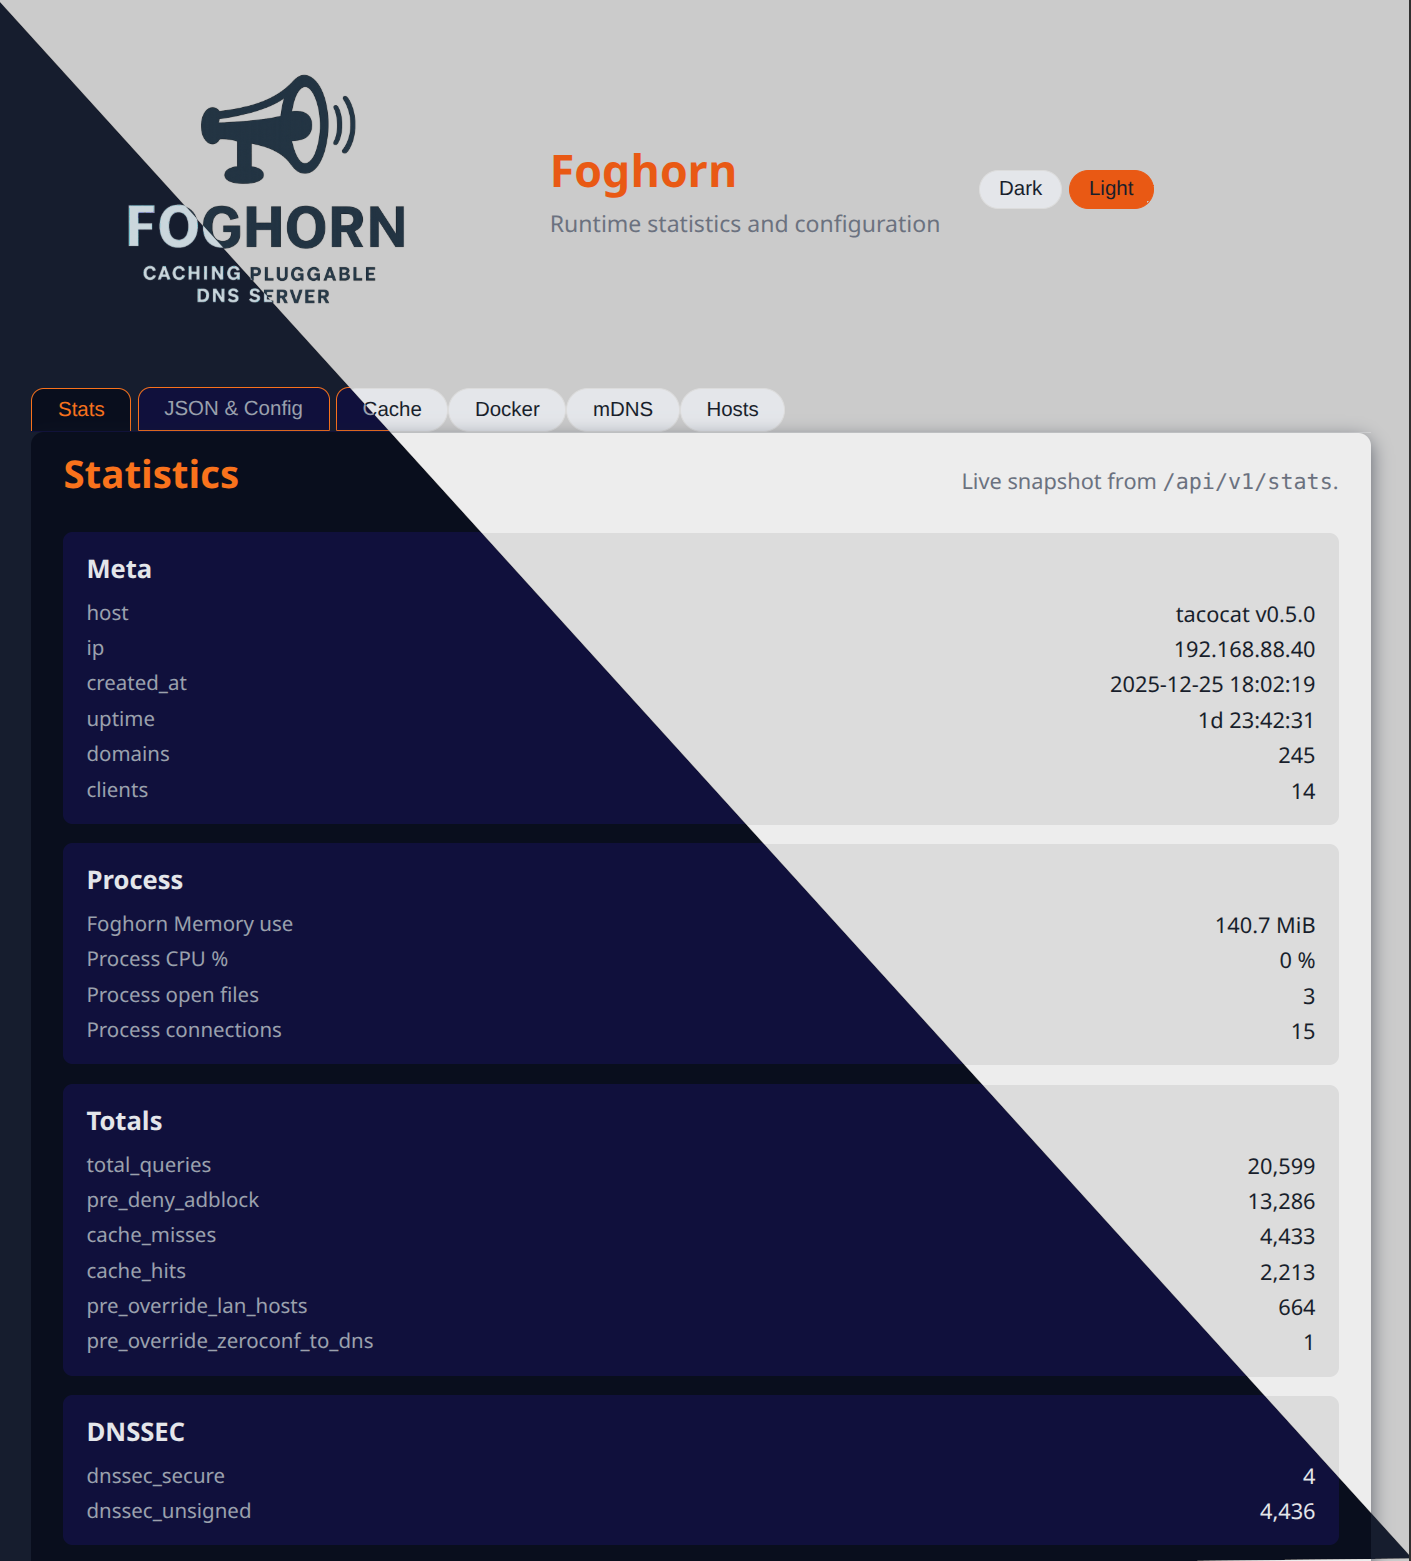
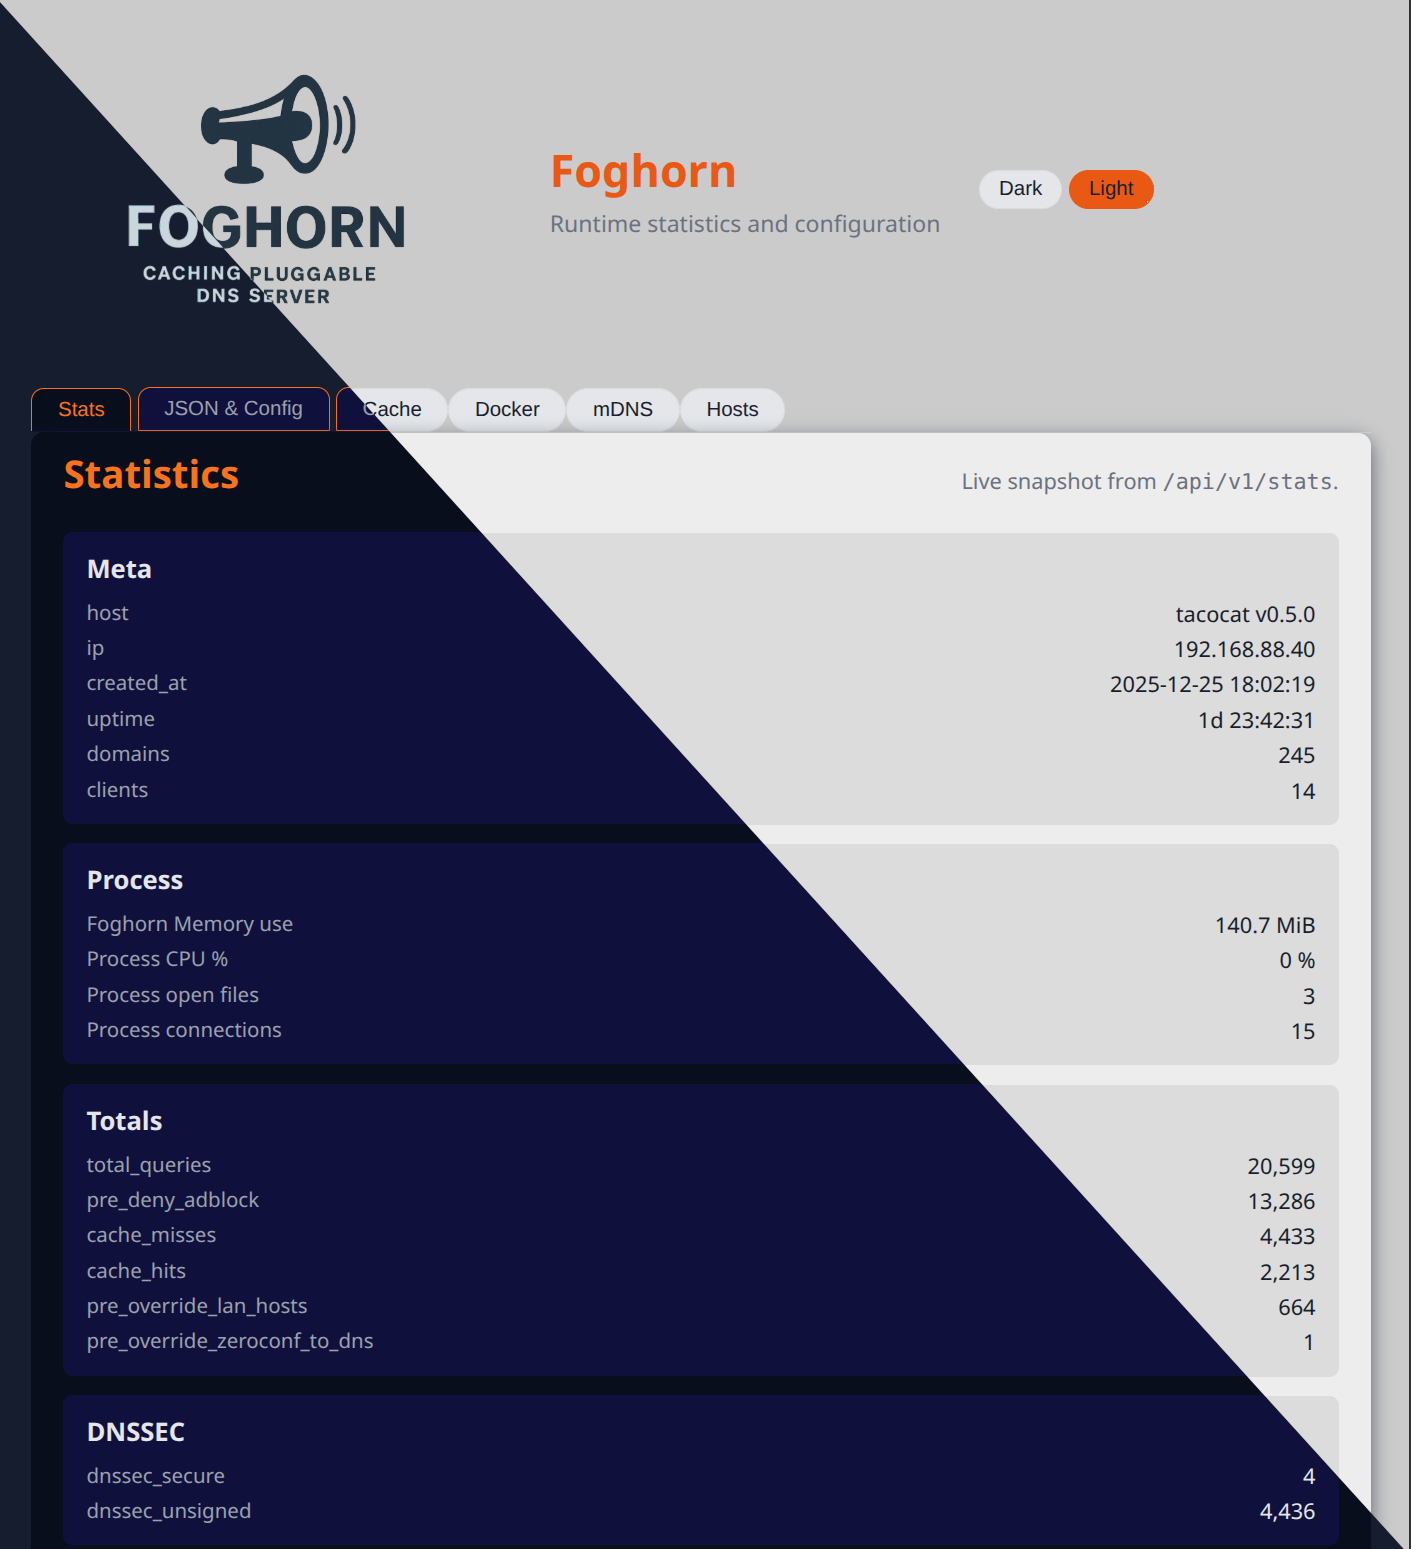
chore(docs): Updated screenshot and BMC image src
The old screenshot had a small white line at the bottom, the BMC image was hard
to see.

diff --git a/README.md b/README.md
@@ -4,7 +4,7 @@ Foghorn is a versatile DNS server designed for flexibility and performance. Buil
 
 With built-in admin and API server support, Foghorn empowers you to monitor and manage its operations efficiently. Plugins extend its functionality by providing their own status pages, seamlessly integrated into the admin dashboard.
 
-[![Python Tests](https://github.com/zallison/foghorn/actions/workflows/pytest.yml/badge.svg)](https://github.com/zallison/foghorn/actions/workflows/pytest.yml) ![Test Coverage](https://img.shields.io/badge/test_coverage-91%25-blue) [![Docker Pulls](https://img.shields.io/docker/pulls/zallison/foghorn)](https://hub.docker.com/r/zallison/foghorn/)  [![PyPI Downloads](https://static.pepy.tech/personalized-badge/foghorn?period=total&units=INTERNATIONAL_SYSTEM&left_color=GRAY&right_color=BLUE&left_text=downloads)](https://pepy.tech/projects/foghorn)  [![BuyMeACoffee](https://raw.githubusercontent.com/pachadotdev/buymeacoffee-badges/main/bmc-donate-yellow.svg)](https://www.buymeacoffee.com/foghorndns)
+[![Python Tests](https://github.com/zallison/foghorn/actions/workflows/pytest.yml/badge.svg)](https://github.com/zallison/foghorn/actions/workflows/pytest.yml) ![Test Coverage](https://img.shields.io/badge/test_coverage-91%25-blue) [![Docker Pulls](https://img.shields.io/docker/pulls/zallison/foghorn)](https://hub.docker.com/r/zallison/foghorn/)  [![PyPI Downloads](https://static.pepy.tech/personalized-badge/foghorn?period=total&units=INTERNATIONAL_SYSTEM&left_color=GRAY&right_color=BLUE&left_text=downloads)](https://pepy.tech/projects/foghorn)  [![BuyMeACoffee](https://raw.githubusercontent.com/pachadotdev/buymeacoffee-badges/main/bmc-blue.svg)](https://www.buymeacoffee.com/foghorndns)
 
 <img src="https://raw.githubusercontent.com/zallison/foghorn/refs/heads/main/assets/screenshot-1.png" width=300px />
 
@@ -1361,7 +1361,7 @@ plugins:
 
 From here you can mix and match plugins, caches, and stats backends to shape Foghorn into exactly the DNS service you need.
 
-[![Python Tests](https://github.com/zallison/foghorn/actions/workflows/pytest.yml/badge.svg)](https://github.com/zallison/foghorn/actions/workflows/pytest.yml) ![Test Coverage](https://img.shields.io/badge/test_coverage-91%25-blue) [![Docker Pulls](https://img.shields.io/docker/pulls/zallison/foghorn)](https://hub.docker.com/r/zallison/foghorn/)  [![PyPI Downloads](https://static.pepy.tech/personalized-badge/foghorn?period=total&units=INTERNATIONAL_SYSTEM&left_color=GRAY&right_color=BLUE&left_text=downloads)](https://pepy.tech/projects/foghorn)  [![BuyMeACoffee](https://raw.githubusercontent.com/pachadotdev/buymeacoffee-badges/main/bmc-donate-yellow.svg)](https://www.buymeacoffee.com/foghorndns)
+[![Python Tests](https://github.com/zallison/foghorn/actions/workflows/pytest.yml/badge.svg)](https://github.com/zallison/foghorn/actions/workflows/pytest.yml) ![Test Coverage](https://img.shields.io/badge/test_coverage-91%25-blue) [![Docker Pulls](https://img.shields.io/docker/pulls/zallison/foghorn)](https://hub.docker.com/r/zallison/foghorn/)  [![PyPI Downloads](https://static.pepy.tech/personalized-badge/foghorn?period=total&units=INTERNATIONAL_SYSTEM&left_color=GRAY&right_color=BLUE&left_text=downloads)](https://pepy.tech/projects/foghorn)  [![BuyMeACoffee](https://raw.githubusercontent.com/pachadotdev/buymeacoffee-badges/main/bmc-blue.svg)](https://www.buymeacoffee.com/foghorndns)
 
 ## Stargazers over time
 [![Stargazers over time](https://starchart.cc/zallison/foghorn.svg?variant=adaptive)](https://starchart.cc/zallison/foghorn)
